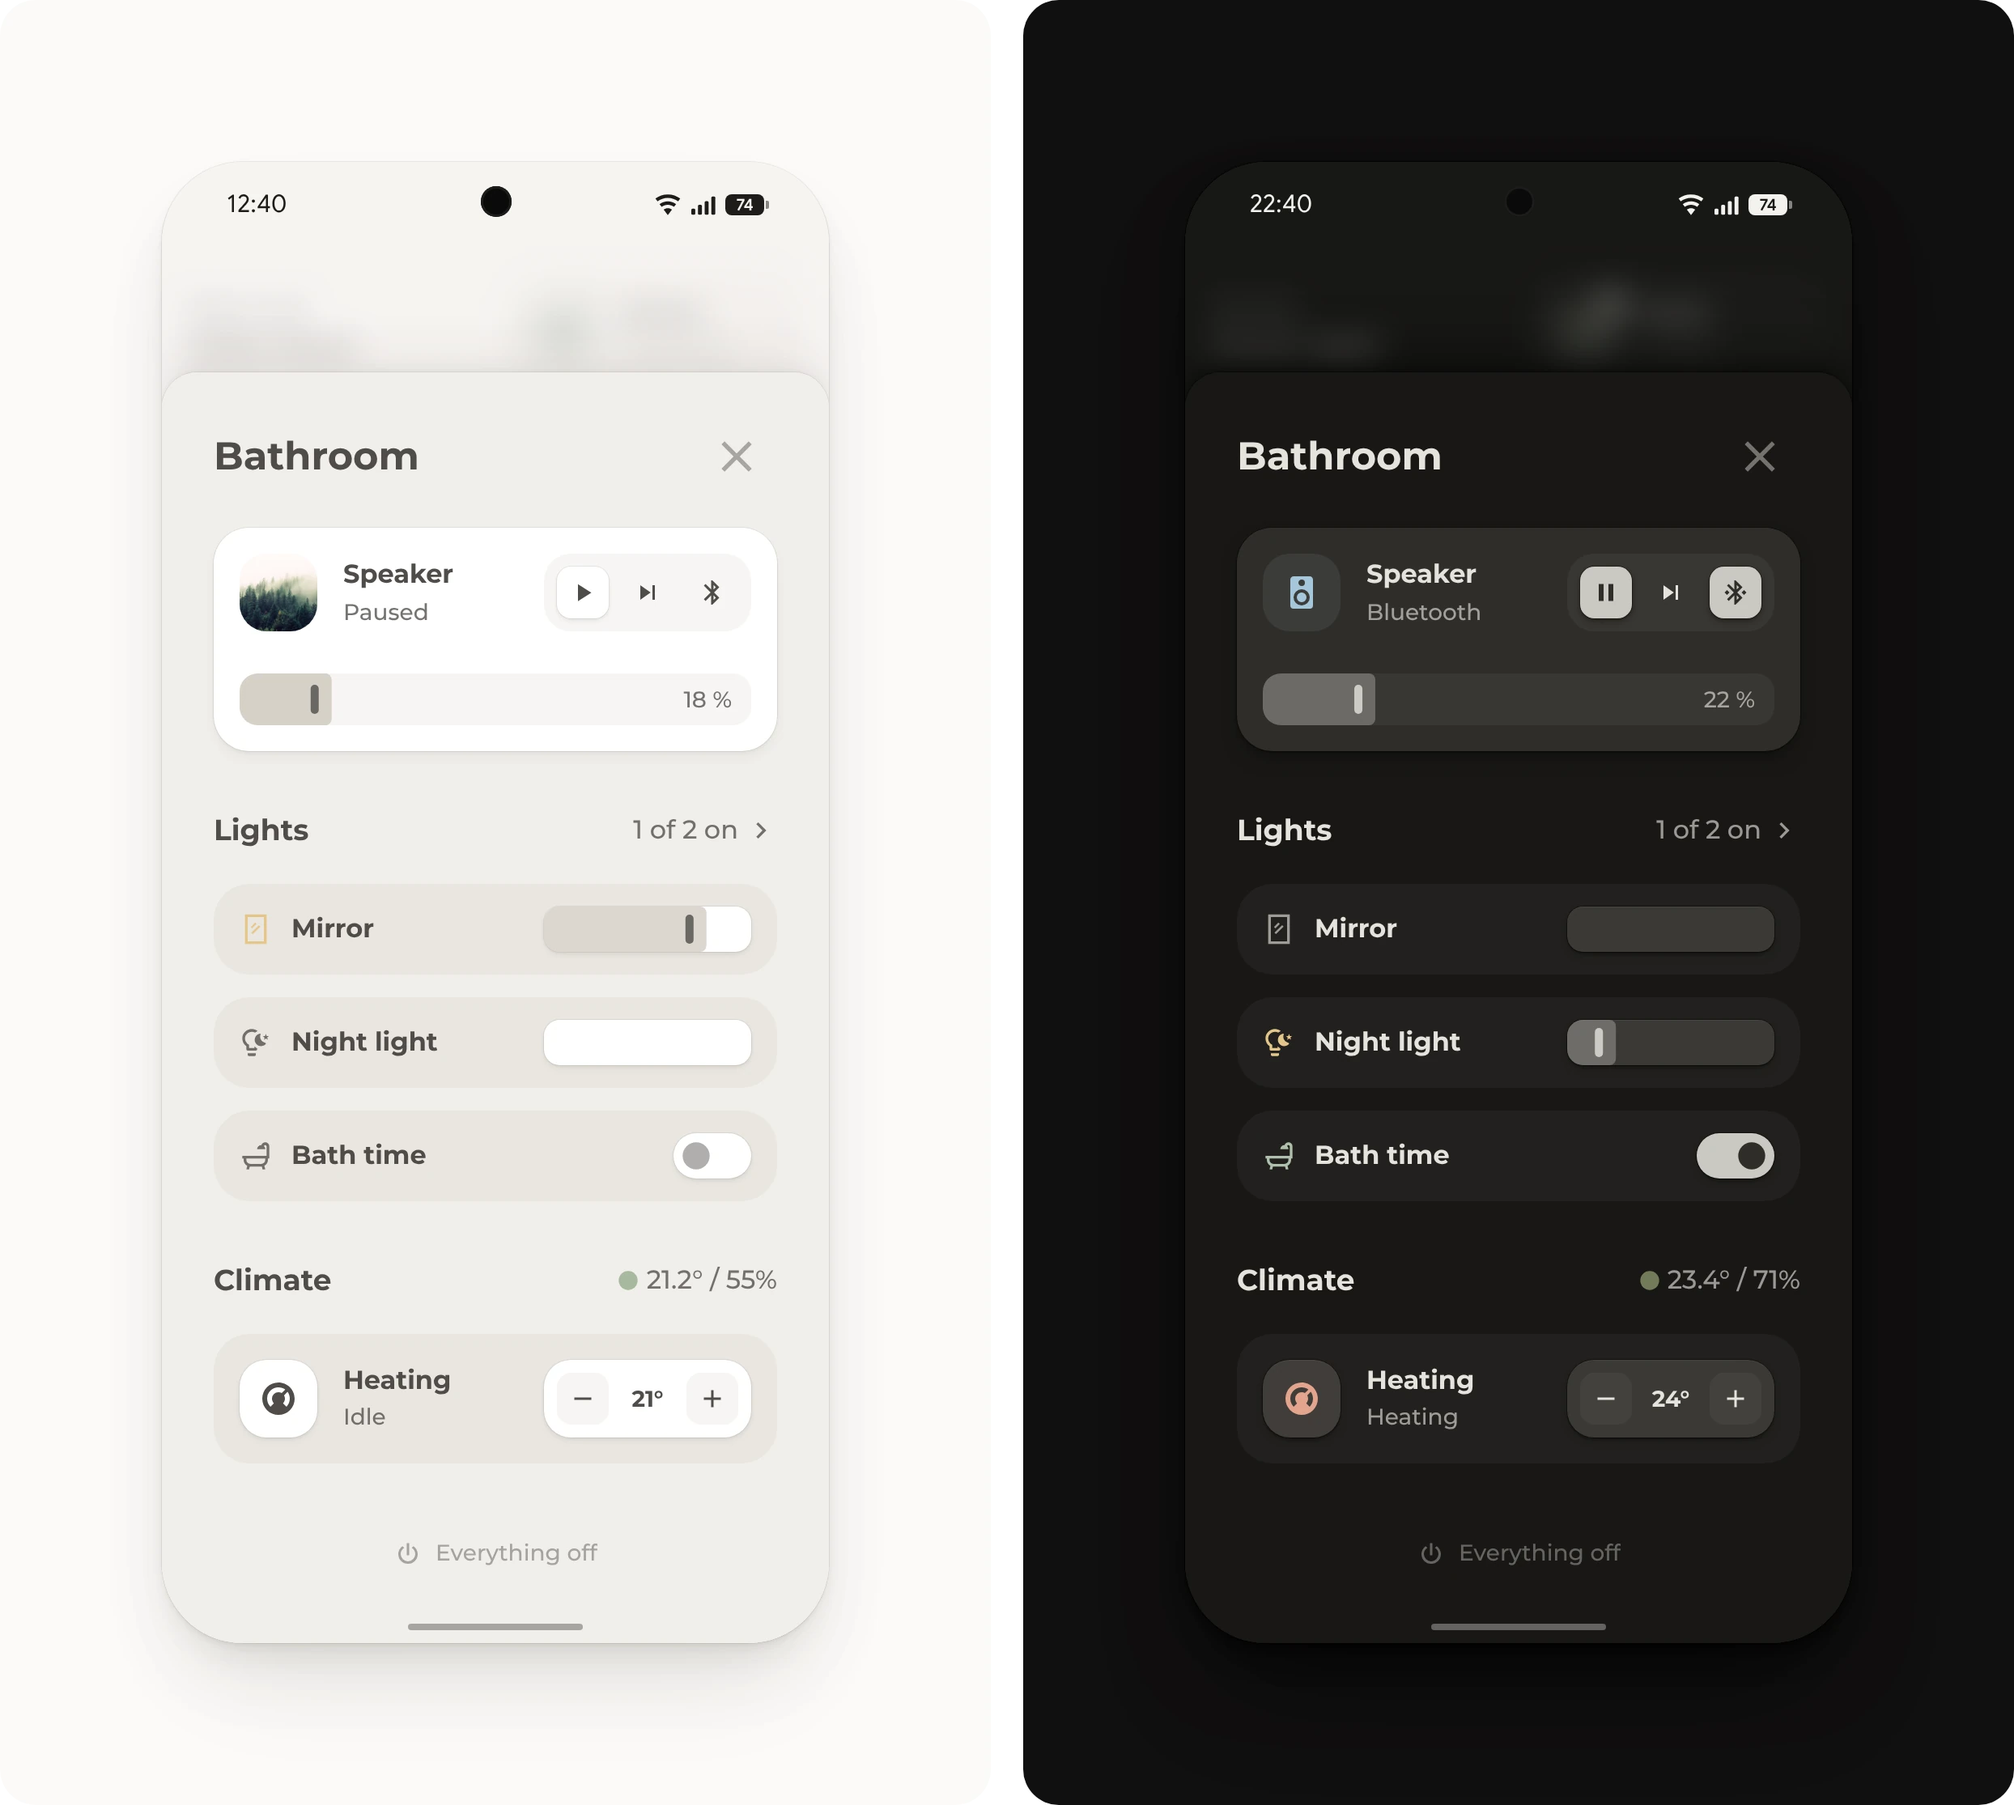
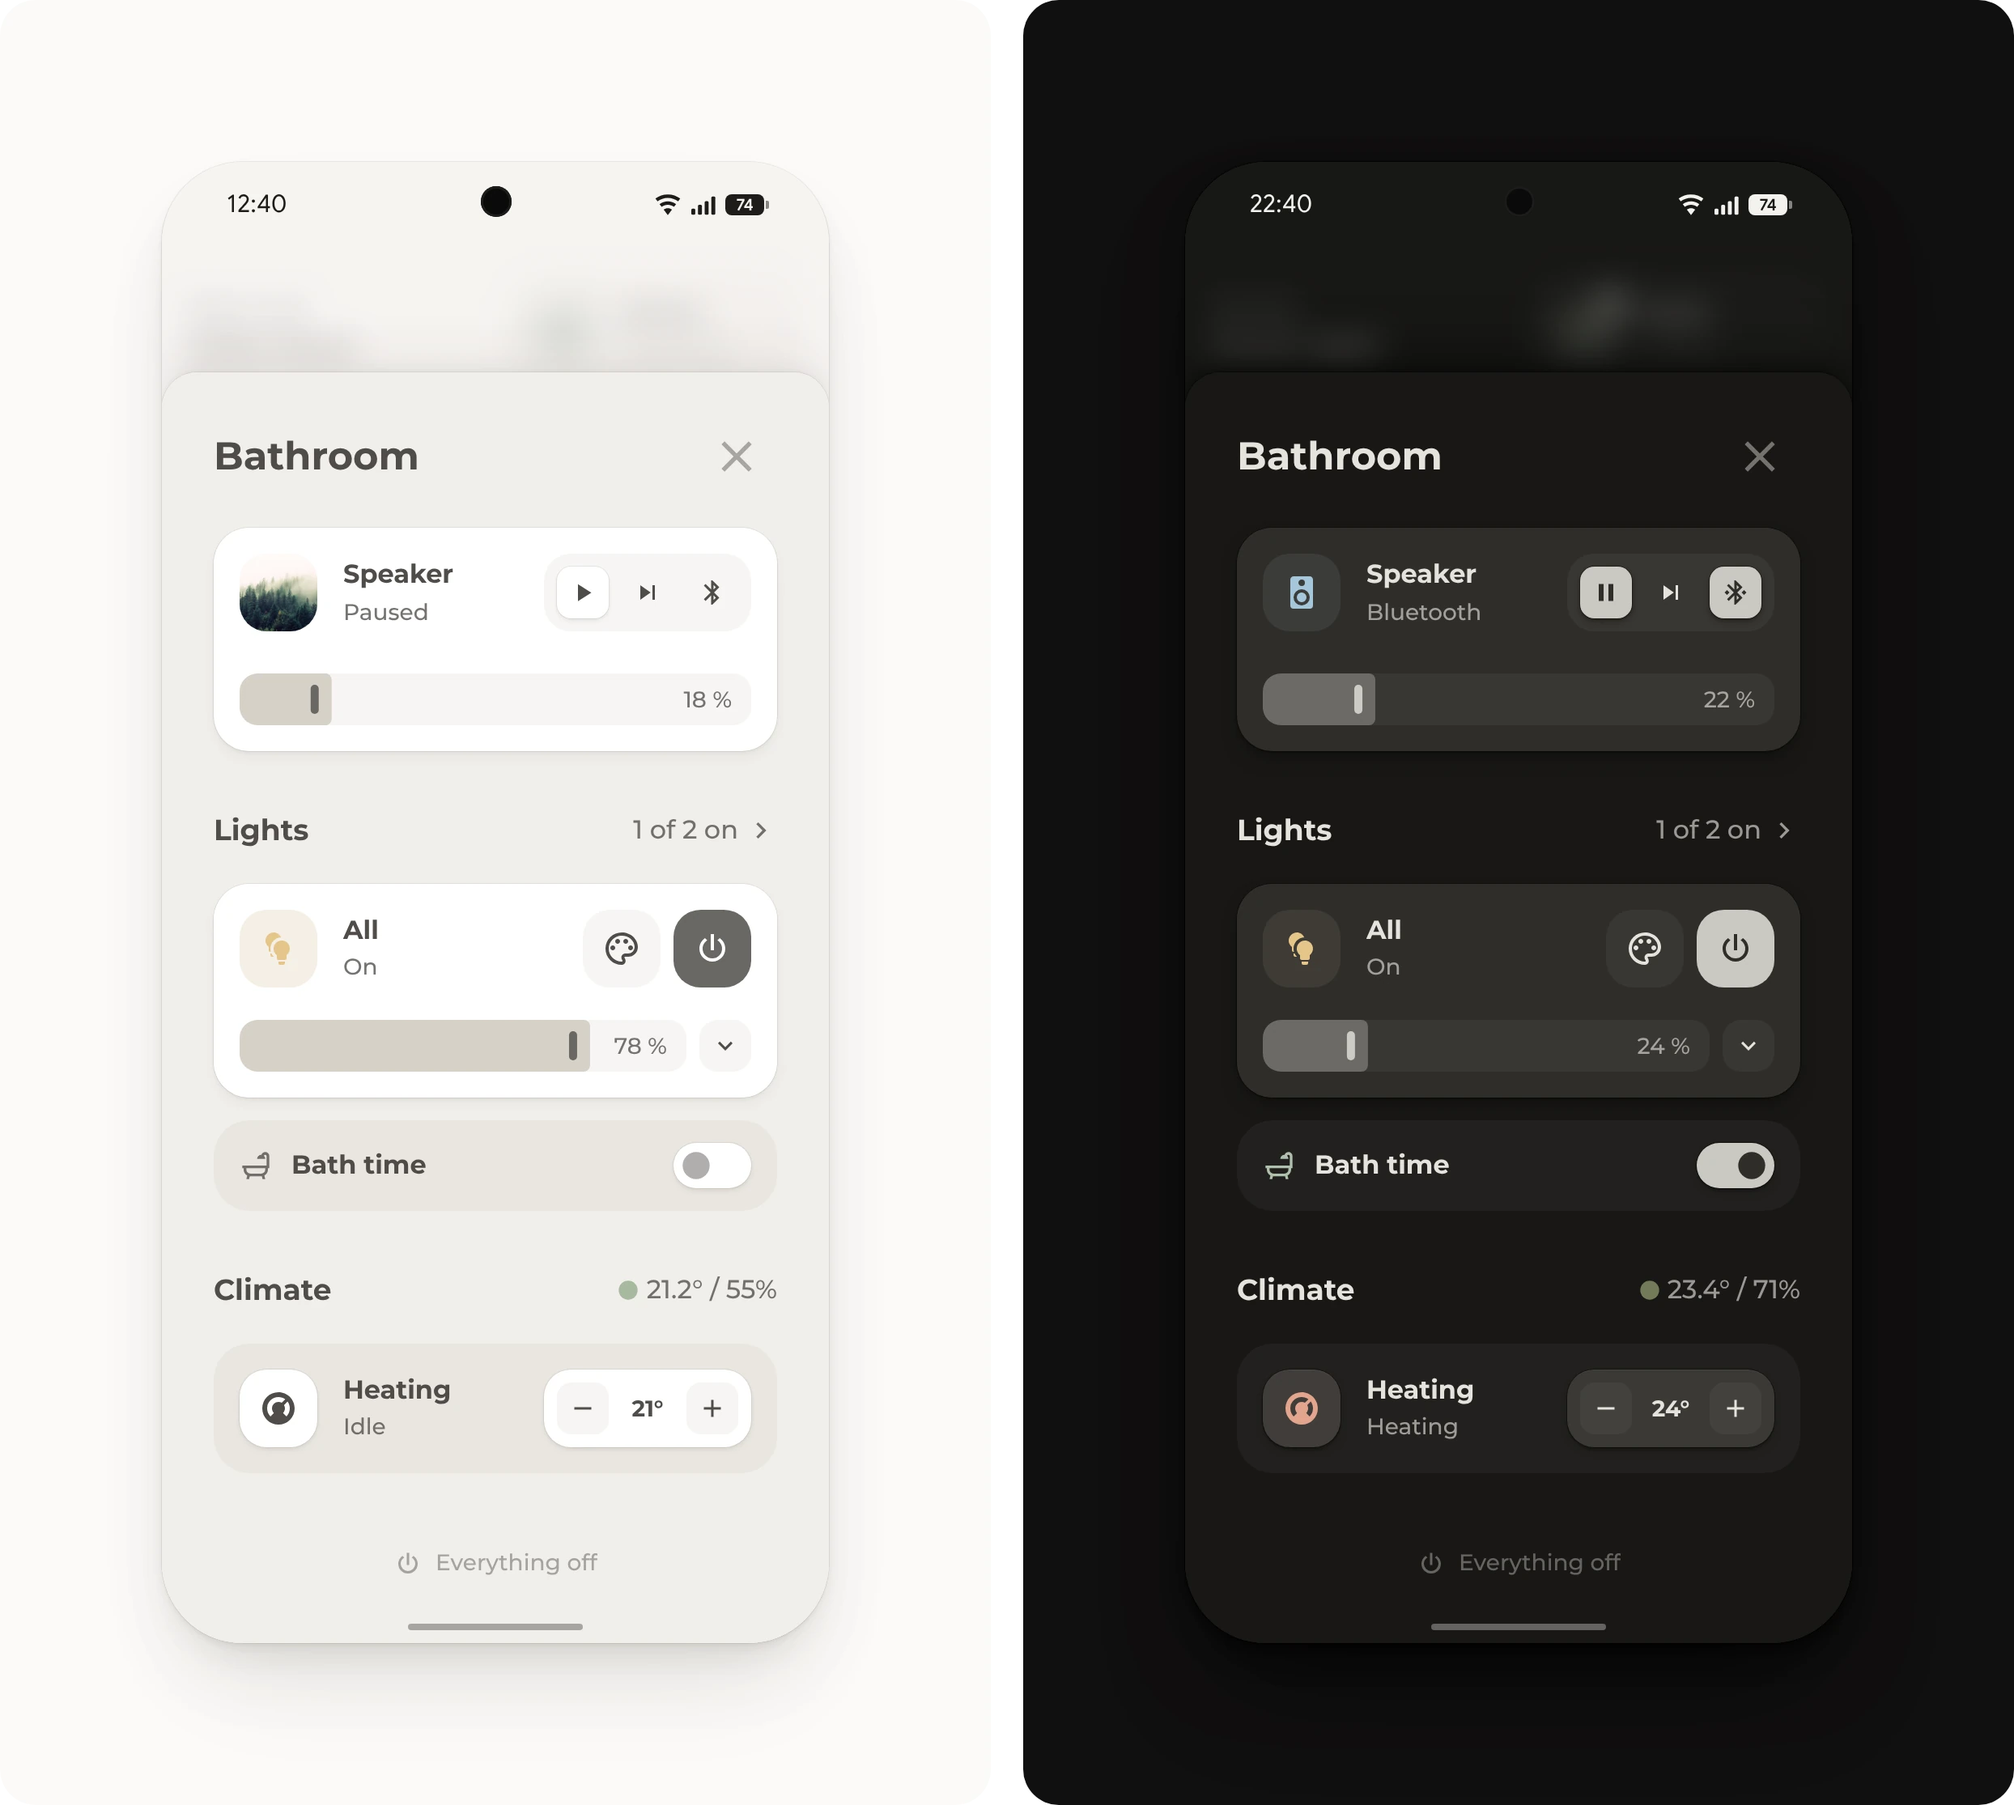
Room pop-ups: the lamps' arrow beside the slider, the bathroom with the same light card, and the bathroom at night in the gallery

diff --git a/dashboard/room/README.md b/dashboard/room/README.md
@@ -4,7 +4,7 @@
 
 <img width="800" alt="The bathroom pop-up with the speaker, the lamps and the climate, in light and dark mode" src="https://raw.githubusercontent.com/hazymorning/origami/next/images/v3/room-pop-up-bathroom.webp">
 
-A room's media, lights and climate in one pop-up, made of blocks for the room's devices. It comes as two examples: a living room with a TV, a fan and a group of lamps, and a bathroom with a speaker and a few lamps.
+A room's media, lights and climate in one pop-up, made of blocks for the room's devices. It comes as two examples: a living room with a TV, a fan and several lamps, and a bathroom with a speaker, two lamps and a switch for bath time.
 
 ## Requirements
 
@@ -26,8 +26,7 @@ Each block is only for a room that has its device.
 - **Speaker.** A tap opens the [music pop-up](../music/README.md), or change its tap action. It needs the Media module.
 - **TV.** For a TV whose sound plays through the room's speaker, as in the living room. The TV card takes the speaker's place while the speaker uses its TV input, so change `Optical In` to the name of that input. With [Google Cast](https://www.home-assistant.io/integrations/cast/), it also shows what's cast to the TV. A tap opens the [TV pop-up](../tv/README.md). It needs the Media module.
 - **Plug.** A device on a smart plug, as a row with a switch, such as the living room's console.
-- **Lamps in a group.** For a room with several lamps, as in the living room. **All** switches and dims them together, its palette opens the scenes and its arrow a row for each lamp. Unless the room has a light group already, open [Helpers](https://my.home-assistant.io/redirect/helpers/) and select **Create helper**, then **Group** and **Light group**, and add the room's lamps. The lamps and the scenes are under `mini_popups`, and each scene is also listed under `active`. It needs the Slider module.
-- **Single lamps.** For a room with a few lamps, as in the bathroom: a row for each lamp.
+- **Lamps.** For a room with lamps, as in both examples. **All** switches and dims them together, its palette opens the scenes, and the arrow beside its slider a row for each lamp. Unless the room has a light group already, open [Helpers](https://my.home-assistant.io/redirect/helpers/) and select **Create helper**, then **Group** and **Light group**, and add the room's lamps. The lamps and the scenes are under `mini_popups`, and each scene is also listed under `active`. It needs the Slider module.
 - **Climate.** For a room with a temperature sensor. The header shows the temperature and the humidity, with a dot from blue for cold to red for hot. Without a humidity sensor, delete the `name` under the temperature, and the header shows the temperature alone.
 - **Fan.** For a room with a fan, as in the living room: its three speeds, and a tap opens the [fan pop-up](../fan/README.md). The card hides while the fan is unavailable. It needs the Fan module.
 - **Thermostat.** For a room with a thermostat. Its minus and plus move the target by half a degree through a script, since Home Assistant has no action that moves a target by a step. Open [Scripts](https://my.home-assistant.io/redirect/scripts/) and select **Create script**, then **Create new script**. In the three-dot menu, select **Edit in YAML**, paste [`thermostat-step.yaml`](thermostat-step.yaml) and save it with the name **Thermostat step**. It needs the Climate module.
@@ -44,10 +43,9 @@ Each block is only for a room that has its device.
 | `media_player.living_room_tv` | The TV |
 | `media_player.living_room_tv_cast` | What's cast to the TV and its picture, from Google Cast |
 | `switch.living_room_console` | The plug |
-| `light.living_room` | The light group: **All** and the count of lamps that are on |
-| `light.living_room_floor_lamp`, `light.living_room_string_lights` | The lamps in the group, under the arrow on **All** |
-| `scene.living_room_evening`, `scene.living_room_late`, `scene.living_room_night`, `scene.living_room_dinner` | The scenes under the palette on **All**. The one turned on last stays highlighted while the lamps are on. |
-| `light.bathroom_mirror`, `light.bathroom_night_light` | The single lamps, and the count of lamps that are on |
+| `light.living_room`, `light.bathroom` | The light group: **All** and the count of lamps that are on |
+| `light.living_room_floor_lamp`, `light.living_room_string_lights`, `light.bathroom_mirror`, `light.bathroom_night_light` | The lamps in the group, under the arrow beside the slider of **All** |
+| `scene.living_room_evening`, `scene.living_room_late`, `scene.living_room_night`, `scene.living_room_dinner`, `scene.bathroom_bright`, `scene.bathroom_bath`, `scene.bathroom_night` | The scenes under the palette on **All**. The one turned on last stays highlighted while the lamps are on. |
 | `sensor.living_room_temperature`, `sensor.bathroom_temperature`, `sensor.living_room_humidity`, `sensor.bathroom_humidity` | The climate header |
 | `fan.living_room` | The fan |
 | `climate.living_room`, `climate.bathroom` | The thermostat |

diff --git a/CHANGELOG.md b/CHANGELOG.md
@@ -158,6 +158,7 @@ These changes are in the `next` branch and come with the next release.
 - The favorites are tiles in one row that scrolls sideways, or in a grid for a larger screen. The README shows both.
 - The lights pop-up shows how many lamps are on and since when. Each scene shows its colors in a rounded square, with the theme's corners, and its brightness under its name, and a small dot before its brightness marks the active scene.
 - The weather part has three cards: a paper diorama with a picture for each kind of weather, which the home view shows, a two-story house whose rooms light up and show their temperature beside the forecast for the week, and Origami Weather's own sky. The pictures load from the repository, so a home needs no files of its own.
+- In the room pop-ups, the light card's arrow to the lamps stands beside its slider, as in the lights pop-up, and the bathroom has the same light card as the living room, with its two lamps and its scenes.
 
 ### Bug fixes
 

diff --git a/README.md b/README.md
@@ -122,7 +122,7 @@ Not really needed, but nice to have: a menu that slides down from the top and tr
 
 ### Room
 
-<img width="800" alt="The living room pop-up with the speaker or the TV, the lights and the climate, and with its scenes open, in light and dark mode" src="https://raw.githubusercontent.com/hazymorning/origami/next/images/v3/room-pop-up-living-room.webp">
+<img width="800" alt="The living room pop-up at midday and the bathroom pop-up late in the evening, each with its media, lights and climate, in light and dark mode" src="https://raw.githubusercontent.com/hazymorning/origami/next/images/v3/room-pop-up.webp">
 
 Everything for one room in one place. [More](dashboard/room/)
 
